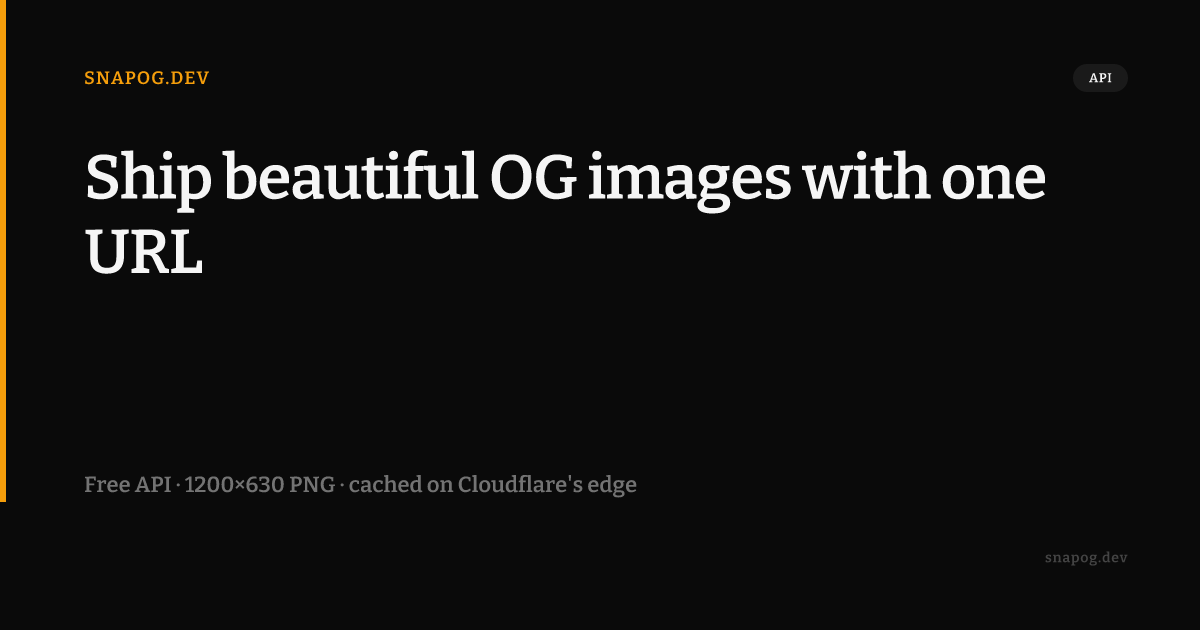
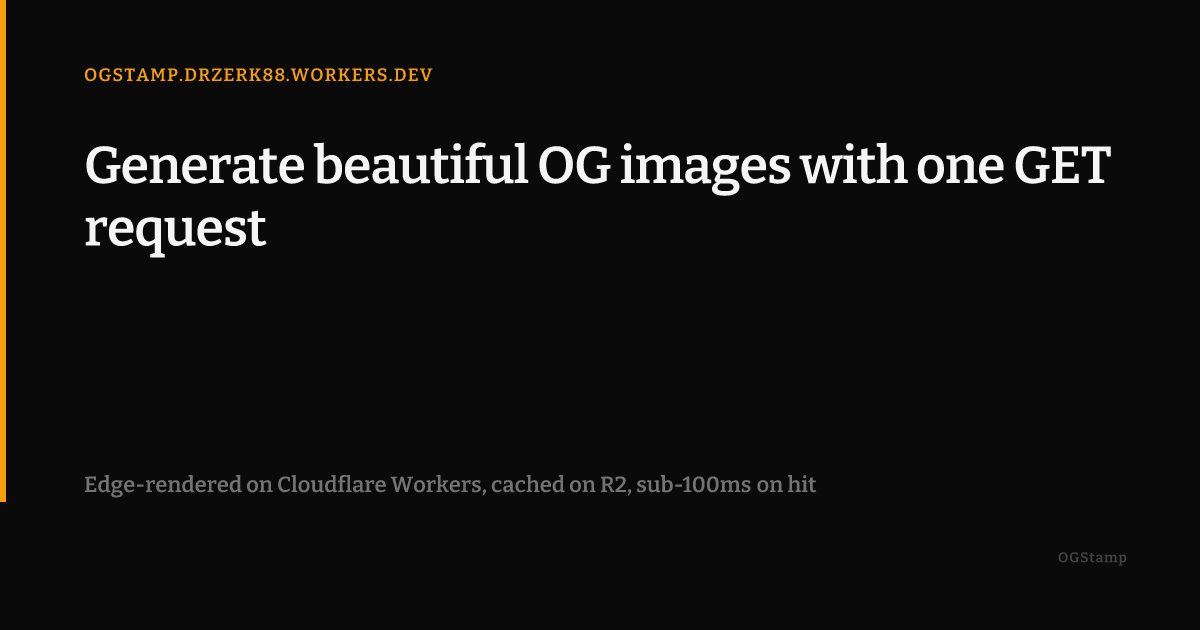
OGStamp — complete rename from SnapOG, new production deployment
- product renamed to OGStamp (SnapOG name belongs to an unrelated product)
- live at https://ogstamp.drzerk88.workers.dev
- form-based /register, server-enforced free tier
- line-wrapping render fix (numeric lineHeight) + R2 cache-key versioning
- fresh demo image generated by the live API

diff --git a/src/dashboard/pages.ts b/src/dashboard/pages.ts
@@ -1,4 +1,4 @@
-// SnapOG — Dashboard & landing page HTML
+// OGStamp — Dashboard & landing page HTML
 // Aesthetic: "Carbon Terminal" — dark developer tool, amber accent, monospace-first
 
 import type { ApiKey } from '../types';
@@ -343,7 +343,7 @@ function layout(title: string, body: string, extraHead = ''): string {
 <head>
   <meta charset="UTF-8" />
   <meta name="viewport" content="width=device-width, initial-scale=1.0" />
-  <title>${title} — SnapOG</title>
+  <title>${title} — OGStamp</title>
   <meta name="description" content="Generate stunning Open Graph images via API. Hosted on Cloudflare edge, cached globally, delivered in milliseconds." />
   <style>${CSS}</style>
   ${extraHead}
@@ -370,7 +370,7 @@ function footer(): string {
   return `
   <footer class="footer">
     <div class="container">
-      snapog.dev — OG images at the edge. Built with ♥ on Cloudflare Workers.
+      OGStamp — OG images at the edge. Built with ♥ on Cloudflare Workers.
     </div>
   </footer>`;
 }
@@ -388,7 +388,7 @@ export function landingPage(host: string): string {
       <h1>OG images for every URL,<br/><em>delivered at the edge</em></h1>
       <p class="hero-sub">
         One API call. Instant PNG. Cached globally on Cloudflare CDN.
-        Stop hand-coding OG templates — let SnapOG generate them dynamically.
+        Stop hand-coding OG templates — let OGStamp generate them dynamically.
       </p>
       <div class="hero-cta">
         <a href="/register" class="btn btn-primary" style="font-size:15px;padding:12px 28px;">Get Free API Key</a>
@@ -479,7 +479,7 @@ export function landingPage(host: string): string {
   <!-- Features -->
   <section class="section" style="padding-top:0;">
     <div class="container">
-      <p class="section-title">Why SnapOG</p>
+      <p class="section-title">Why OGStamp</p>
       <h2 class="section-h2">Built for production, priced for teams</h2>
       <div class="features-grid">
         <div class="feature-card">
@@ -522,7 +522,7 @@ export function landingPage(host: string): string {
             <li>3 templates (dark + light)</li>
             <li>R2 global cache</li>
             <li>API key + dashboard</li>
-            <li class="dim">SnapOG watermark</li>
+            <li class="dim">OGStamp watermark</li>
             <li class="dim">No custom fonts</li>
           </ul>
           <div class="pricing-cta">
@@ -560,7 +560,7 @@ export function landingPage(host: string): string {
             <li>SLA + priority queue</li>
           </ul>
           <div class="pricing-cta">
-            <a href="mailto:[email redacted]" class="btn btn-ghost" style="width:100%;">Contact us →</a>
+            <a href="mailto:[email redacted]" class="btn btn-ghost" style="width:100%;">Contact us →</a>
           </div>
         </div>
 
@@ -626,7 +626,7 @@ export function registerPage(error?: string, tier?: string): string {
   return layout('Get API Key', body);
 }
 
-export function keyCreatedPage(rawKey: string, email: string, tier: string): string {
+export function keyCreatedPage(rawKey: string, email: string, tier: string, host: string): string {
   const body = `
   ${nav()}
   <section class="section">
@@ -661,7 +661,7 @@ export function keyCreatedPage(rawKey: string, email: string, tier: string): str
           <span class="code-block-lang">Quick start</span>
         </div>
         <pre><span class="c-comment"># Test your key</span>
-<span class="c-key">curl</span> <span class="c-str">"https://snapog.dev/og?title=Hello+World&amp;key=${rawKey}"</span> \
+<span class="c-key">curl</span> <span class="c-str">"https://${host}/og?title=Hello+World&amp;key=${rawKey}"</span> \
   <span class="c-val">--output</span> og.png && <span class="c-key">open</span> og.png</pre>
       </div>
 
@@ -686,7 +686,7 @@ export function keyCreatedPage(rawKey: string, email: string, tier: string): str
   return layout('API Key Created', body);
 }
 
-export function dashboardPage(key: ApiKey, recentCount: number): string {
+export function dashboardPage(key: ApiKey, recentCount: number, host: string): string {
   const pct = Math.round((key.usage_count / key.monthly_limit) * 100);
   const barClass = pct >= 100 ? 'full' : pct >= 80 ? 'warn' : '';
   const resetDate = new Date(key.usage_reset_at);
@@ -753,7 +753,7 @@ export function dashboardPage(key: ApiKey, recentCount: number): string {
               <span class="code-block-lang">HTML / meta tags</span>
             </div>
             <pre><span class="c-key">&lt;meta</span> <span class="c-val">property=</span><span class="c-str">"og:image"</span>
-      <span class="c-val">content=</span><span class="c-str">"https://snapog.dev/og?title=YOUR_TITLE&amp;key=${key.key_prefix}..."</span> <span class="c-key">/&gt;</span></pre>
+      <span class="c-val">content=</span><span class="c-str">"https://${host}/og?title=YOUR_TITLE&amp;key=${key.key_prefix}..."</span> <span class="c-key">/&gt;</span></pre>
           </div>
           <div class="code-block" style="margin-top:12px;">
             <div class="code-block-header">
@@ -762,7 +762,7 @@ export function dashboardPage(key: ApiKey, recentCount: number): string {
               </div>
               <span class="code-block-lang">cURL test</span>
             </div>
-            <pre><span class="c-key">curl</span> <span class="c-str">"https://snapog.dev/og?title=My+Blog+Post&amp;domain=myblog.com&amp;key=${key.key_prefix}..."</span> \
+            <pre><span class="c-key">curl</span> <span class="c-str">"https://${host}/og?title=My+Blog+Post&amp;domain=myblog.com&amp;key=${key.key_prefix}..."</span> \
   <span class="c-val">--output</span> og.png && <span class="c-key">open</span> og.png</pre>
           </div>
         </div>

diff --git a/src/index.ts b/src/index.ts
@@ -1,4 +1,4 @@
-// SnapOG — Main Cloudflare Worker
+// OGStamp — Main Cloudflare Worker
 // Routes: GET /og (image gen), GET / (landing), GET/POST /register, GET /dashboard
 
 import { Hono } from 'hono';
@@ -164,7 +164,7 @@ app.get('/og', async c => {
         'Content-Type': 'image/png',
         'Cache-Control': 'public, max-age=86400, s-maxage=604800',
         'X-Cache': 'HIT',
-        'X-SnapOG-Tier': apiKey.tier,
+        'X-OGStamp-Tier': apiKey.tier,
       },
     });
   }
@@ -191,7 +191,7 @@ app.get('/og', async c => {
       'Content-Type': 'image/png',
       'Cache-Control': 'public, max-age=86400, s-maxage=604800',
       'X-Cache': 'MISS',
-      'X-SnapOG-Tier': apiKey.tier,
+      'X-OGStamp-Tier': apiKey.tier,
     },
   });
 });
@@ -255,7 +255,7 @@ app.post('/register', async c => {
     .bind(keyId, user.id, keyname, keyPrefix, keyHash, safeTier, monthlyLimit, resetAt)
     .run();
 
-  return htmlResponse(keyCreatedPage(rawKey, email, safeTier));
+  return htmlResponse(keyCreatedPage(rawKey, email, safeTier, new URL(c.req.url).host));
 });
 
 // ── Dashboard ─────────────────────────────────────────────────────────────────
@@ -281,7 +281,7 @@ app.get('/dashboard', async c => {
     .bind(refreshed.id, yesterday)
     .first<{ cnt: number }>();
 
-  return htmlResponse(dashboardPage(refreshed, recent?.cnt ?? 0));
+  return htmlResponse(dashboardPage(refreshed, recent?.cnt ?? 0, new URL(c.req.url).host));
 });
 
 // ── Health / ops ──────────────────────────────────────────────────────────────

diff --git a/src/og/templates.ts b/src/og/templates.ts
@@ -1,4 +1,4 @@
-// SnapOG — OG image element templates
+// OGStamp — OG image element templates
 // Returns plain objects compatible with workers-og / satori
 
 import type { OGParams } from '../types';
@@ -123,7 +123,7 @@ function Footer(
                   opacity: '0.55',
                   letterSpacing: '0.06em',
                 },
-                children: 'snapog.dev',
+                children: 'OGStamp',
               },
             }
           : { type: 'div', props: { style: { width: '1px' }, children: null } },
@@ -450,7 +450,7 @@ function articleTemplate(params: OGParams, watermark: boolean): VNode {
                         opacity: '0.5',
                         letterSpacing: '0.06em',
                       },
-                      children: 'snapog.dev',
+                      children: 'OGStamp',
                     },
                   }
                 : { type: 'div', props: { style: { width: '1px' }, children: null } },

diff --git a/src/og/render.ts b/src/og/render.ts
@@ -1,4 +1,4 @@
-// SnapOG — OG image renderer
+// OGStamp — OG image renderer
 // Uses workers-og (Satori + resvg-wasm, CF Workers compatible)
 
 import { ImageResponse } from 'workers-og';

diff --git a/src/types.ts b/src/types.ts
@@ -1,4 +1,4 @@
-// SnapOG — shared types
+// OGStamp — shared types
 
 export type Tier = 'free' | 'pro' | 'business';
 

diff --git a/README.md b/README.md
@@ -1,18 +1,18 @@
-# SnapOG
+# OGStamp
 
 Generate stunning Open Graph images via API — hosted on Cloudflare Workers, cached globally on R2, sub-100ms on cache hit.
 
-**Live:** https://snapog.drzerk88.workers.dev — grab a free key at [/register](https://snapog.drzerk88.workers.dev/register), no credit card.
+**Live:** https://ogstamp.drzerk88.workers.dev — grab a free key at [/register](https://ogstamp.drzerk88.workers.dev/register), no credit card.
 
-![SnapOG demo image](sample/og-demo.png)
+![OGStamp demo image](sample/og-demo.png)
 
 *This image was generated by the live API — one GET request, no headless browser, no design tool.*
 
 ## Quick Start
 
 ```bash
-# Get a free API key at https://snapog.drzerk88.workers.dev/register, then:
-curl "https://snapog.drzerk88.workers.dev/og?title=My+Blog+Post&domain=myblog.com&key=sk_YOUR_KEY" \
+# Get a free API key at https://ogstamp.drzerk88.workers.dev/register, then:
+curl "https://ogstamp.drzerk88.workers.dev/og?title=My+Blog+Post&domain=myblog.com&key=sk_YOUR_KEY" \
   --output og.png && open og.png
 ```
 
@@ -34,17 +34,17 @@ Returns `image/png`, 1200×630.
 
 Headers:
 - `X-Cache: HIT|MISS` — whether served from R2 cache
-- `X-SnapOG-Tier: free|pro|business`
+- `X-OGStamp-Tier: free|pro|business`
 
 ## HTML Integration
 
 ```html
 <meta property="og:image"
-      content="https://snapog.drzerk88.workers.dev/og?title=YOUR_TITLE&key=YOUR_KEY" />
+      content="https://ogstamp.drzerk88.workers.dev/og?title=YOUR_TITLE&key=YOUR_KEY" />
 <meta property="og:image:width"  content="1200" />
 <meta property="og:image:height" content="630" />
 <meta name="twitter:card"   content="summary_large_image" />
-<meta name="twitter:image"  content="https://snapog.drzerk88.workers.dev/og?title=YOUR_TITLE&key=YOUR_KEY" />
+<meta name="twitter:image"  content="https://ogstamp.drzerk88.workers.dev/og?title=YOUR_TITLE&key=YOUR_KEY" />
 ```
 
 ## Pricing
@@ -55,7 +55,7 @@ Headers:
 | Pro | $19/mo | 10,000 |
 | Business | $49/mo | 100,000 |
 
-Free tier images include "snapog.dev" watermark.
+Free tier images include "OGStamp" watermark.
 
 ## Local Development
 
@@ -67,11 +67,11 @@ Free tier images include "snapog.dev" watermark.
 ### Setup
 
 ```bash
-cd snapog
+cd ogstamp
 npm install
 
 # 1. Create D1 database
-wrangler d1 create snapog-db
+wrangler d1 create ogstamp-db
 # Copy the returned database_id into wrangler.toml [d1_databases]
 
 # 2. Apply migrations locally
@@ -107,14 +107,14 @@ npm run typecheck
 
 ```bash
 # 1. Create remote D1 database
-wrangler d1 create snapog-db
+wrangler d1 create ogstamp-db
 # Update wrangler.toml with the database_id
 
 # 2. Apply migrations to remote
 npm run db:remote
 
 # 3. Create R2 bucket
-wrangler r2 bucket create snapog-og-cache
+wrangler r2 bucket create ogstamp-og-cache
 
 # 4. Deploy
 wrangler deploy